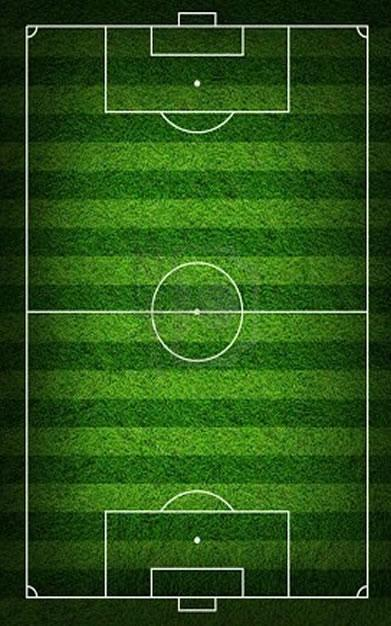
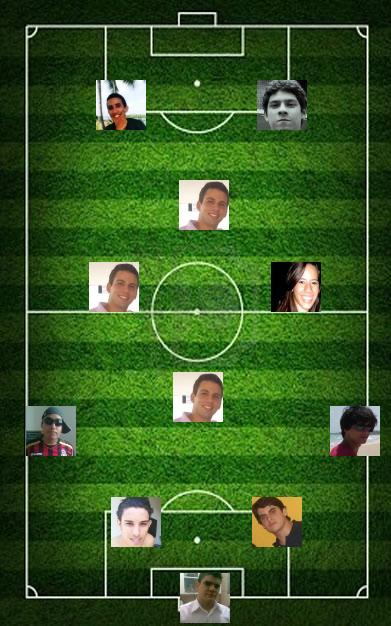
etc

diff --git a/maketeam/templates/time.html b/maketeam/templates/time.html
@@ -157,6 +157,7 @@
 		});
 
 		$("#compartilhar").click(function(){
+				var token = $("#token").val() 
 				dados = [];
 				for (var i = 1; i < 12;i++){
 					var id = $("#foto"+i).attr("data-id");
@@ -164,11 +165,11 @@
 					var y = $("#foto"+i).css("top");
 					dados.push({"id":id , "x":x , "y":y})
 				}
-				console.log(dados)
+				
 				$.ajax({
 		     		type: "POST",
-		     		url: "/compartilhar/",
-		     		data: {"dados" : dados}, 
+		     		url: "/compartilhar",
+		     		data: {"dados" : dados, "token": token}, 
 		     		dataType:"json",
 		     		success: function(conteudo){    			
 		     			
@@ -201,6 +202,7 @@ var posicoes = [{"x":"256", "y":"230"},
 				]
 </script>
 <div class="container">
+		<input type="hidden" value="{{ token }}" id="token" style="position: absolute; top: 283px; right: 58px;">
 		<div class="logo">
 			<img class="img-logo" src="{{ STATIC_URL }}img/logo-make-team.png">
 			<div class="topo-direito">

diff --git a/app/views.py b/app/views.py
@@ -6,24 +6,27 @@ import json
 from django.conf import settings
 from django.views.decorators.csrf import csrf_exempt
 from util.funcoes import montar_imagem
+from facepy import GraphAPI
+from facepy import SignedRequest
 
 # @facebook_authorization_required
 def time(request):
 	friends = request.facebook.user.graph.get('me/friends')
+	token = request.REQUEST["signed_request"]
 	context = {}
 	context['friends'] = json.dumps(friends['data'])
-
+	context['token'] = token
 	return render(request, 'time.html', context)
 
 @csrf_exempt
 def compartilhar(request):
 
 	dados = request.POST
-
+	token = request.POST['token']
 	# user = dados["dados[8][id]"]
 	imagem = montar_imagem(dados)
-	return HttpResponse(imagem)
+	
 	signed_request = SignedRequest.parse(token, settings.FACEBOOK_APPLICATION_SECRET_KEY)
-	graph = GraphAPI(signed_request.oauth_token.token)
-	post = graph.post(path="me/photos", tags="[{'tag_uid':'100003016125914'},{'tag_uid':'100003798651396'}]", message="Vote na sua banda favorita e acompanhem em tempo real essa disputa!!! acesse: http://apps.facebook.com/maketeam2", source=open(settings.STATIC_ROOT+"/media/"+imagem))
-	return HttpResponse(simplejson.dumps(post))
+	graph = GraphAPI(signed_request['oauth_token'])
+	post = graph.post(path="me/photos", tags="[{'tag_uid':'100003016125914', 'x':'30', 'y':'30'},{'tag_uid':'100003798651396'}]", message="Vote na sua banda favorita e acompanhem em tempo real essa disputa!!! acesse: http://apps.facebook.com/maketeam2", source=open(imagem))
+	return HttpResponse(json.dumps(post))

diff --git a/maketeam/settings.py b/maketeam/settings.py
@@ -11,9 +11,13 @@ ADMINS = (
 
 MANAGERS = ADMINS
 
-FACEBOOK_APPLICATION_ID = '362068090500998'
-FACEBOOK_APPLICATION_SECRET_KEY = '52dfe6bc91c7f7c164ed8ec8c39f6e43'
-FACEBOOK_APPLICATION_NAMESPACE = 'teste-localhost'
+# FACEBOOK_APPLICATION_ID = '362068090500998'
+# FACEBOOK_APPLICATION_SECRET_KEY = '52dfe6bc91c7f7c164ed8ec8c39f6e43'
+# FACEBOOK_APPLICATION_NAMESPACE = 'teste-localhost'
+
+FACEBOOK_APPLICATION_ID = '264032420337613'
+FACEBOOK_APPLICATION_SECRET_KEY = '1c51095372aeca4a0c3dda073acc758a'
+FACEBOOK_APPLICATION_NAMESPACE = 'hellodjango'
 FACEBOOK_APPLICATION_INITIAL_PERMISSIONS = ['publish_stream', 'photo_upload']
 
 

diff --git a/app/util/funcoes.py b/app/util/funcoes.py
@@ -1,4 +1,4 @@
-import Image
+from PIL import Image
 import urllib2
 import cStringIO
 from django.conf import settings
@@ -15,9 +15,9 @@ def montar_imagem(dic):
 		x = "dados[%d][x]" % (i)
 		y = "dados[%d][y]" % (i) 
 
-		x = int(dic[x][0:2])-160 
-		y = int(dic[y][0:2])-150 
-
+		x = int(dic[x][0:3])-160 
+		y = int(dic[y][0:3])-150
+		
 		user_id = "dados[%s][id]" % (str(i))
 		url = "https://graph.facebook.com/%s/picture" % str(dic[user_id])
 
